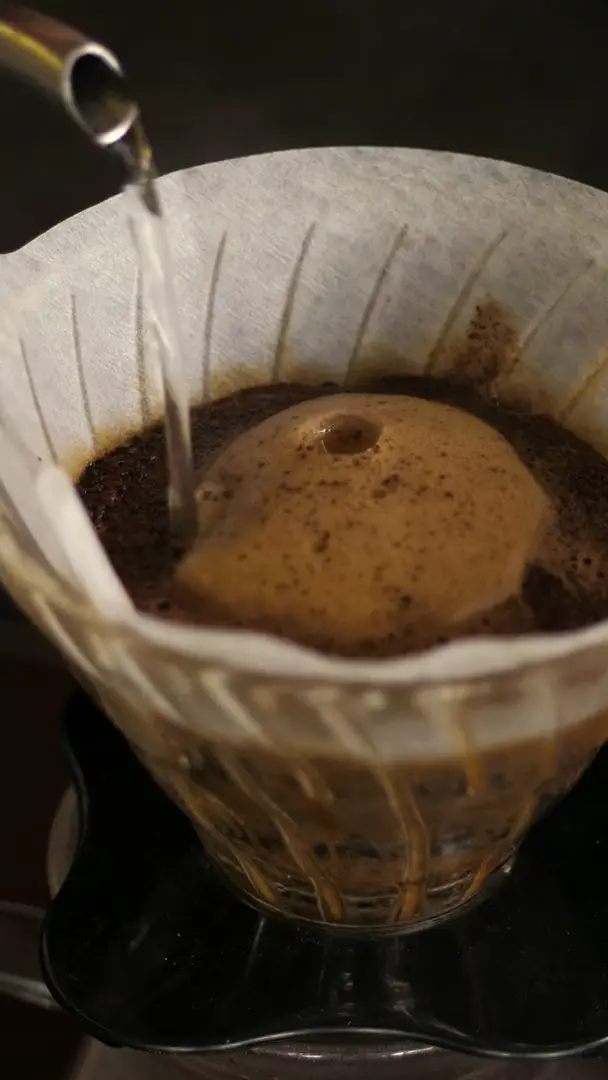
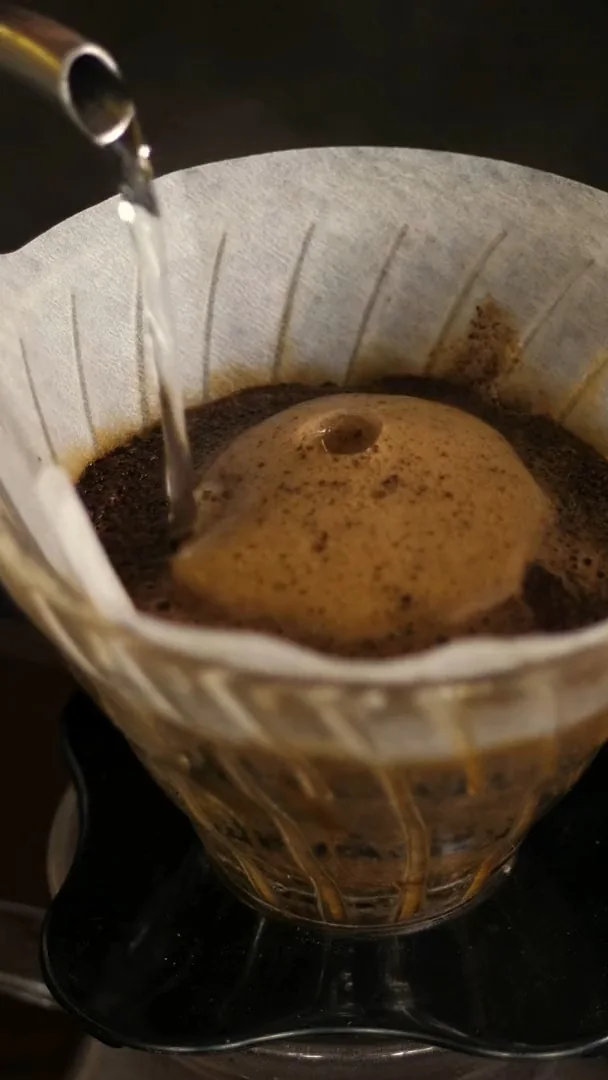
Hero: imagem animada quando o celular bloqueia o vídeo; posters mais nítidos

diff --git a/index.html b/index.html
@@ -481,7 +481,7 @@ video::-webkit-media-controls,video::-webkit-media-controls-start-playback-butto
 <div class="ann"><span><b>5% de desconto</b> na primeira compra<span class="ann-x"> · cupom</span><span class="ann-m">:</span> <b>BEMVINDO</b></span></div>
 
 <section class="hero">
-  <div class="bg" data-par=".6"><picture><source media="(max-width: 760px)" srcset="assets/video/hero-coado-poster-cel.webp" width="608" height="1080"><img src="assets/video/hero-coado-poster.webp" width="1600" height="900" fetchpriority="high" alt=""></picture><video autoplay muted loop playsinline><source src="assets/video/hero-coado-cel.mp4" type="video/mp4" media="(max-width: 760px)"><source src="assets/video/hero-coado.mp4" type="video/mp4"></video></div>
+  <div class="bg" data-par=".6"><picture><source media="(max-width: 760px)" srcset="assets/video/hero-coado-poster-cel.webp" width="608" height="1080"><img src="assets/video/hero-coado-poster.webp" width="1600" height="900" fetchpriority="high" alt=""></picture><video autoplay muted loop playsinline data-anim="assets/video/hero-coado-anim.webp"><source src="assets/video/hero-coado-cel.mp4" type="video/mp4" media="(max-width: 760px)"><source src="assets/video/hero-coado.mp4" type="video/mp4"></video></div>
   <div class="in">
     <div>
       <p class="eyebrow ln-l" data-fade>Café especial · Minas Gerais</p>
@@ -594,9 +594,9 @@ video::-webkit-media-controls,video::-webkit-media-controls-start-playback-butto
 </section>
 
 <script defer src="js/vendor/lenis.min.js"></script>
-<script defer src="js/logo.js?v=55"></script>
-<script defer src="js/catalogo.js?v=55"></script>
-<script defer src="js/loja.js?v=55"></script>
-<script defer src="js/site.js?v=55"></script>
+<script defer src="js/logo.js?v=56"></script>
+<script defer src="js/catalogo.js?v=56"></script>
+<script defer src="js/loja.js?v=56"></script>
+<script defer src="js/site.js?v=56"></script>
 </body>
 </html>

diff --git a/js/site.js b/js/site.js
@@ -209,7 +209,16 @@
   /* vídeos tocam só quando visíveis */
   /* celular com economia de bateria/dados recusa o autoplay: mostra a foto, sem botão de play, e toca no primeiro toque ou rolagem */
   const vis = new Set(), pend = new Set();
-  const toca = v => { const r = v.play(); if (!r) return; r.then(() => { v.classList.remove('v-off'); pend.delete(v); }).catch(() => { if (v.previousElementSibling && v.previousElementSibling.matches('picture, img')) v.classList.add('v-off'); pend.add(v); }); };
+  const toca = v => { const r = v.play(); if (!r) return; r.then(() => { v.classList.remove('v-off'); pend.delete(v); }).catch(() => {
+    if (v.previousElementSibling && v.previousElementSibling.matches('picture, img')) v.classList.add('v-off');
+    /* imagem animada não é bloqueada pela economia de bateria: troca o vídeo por ela, só no celular */
+    if (v.dataset.anim && !v.dataset.animOn && matchMedia('(max-width: 760px)').matches) {
+      v.dataset.animOn = '1'; const im = new Image(); im.alt = ''; im.decoding = 'async'; im.setAttribute('aria-hidden', 'true');
+      im.onload = () => { v.after(im); v.classList.add('v-off'); v.pause(); pend.delete(v); vio.unobserve(v); };
+      im.src = v.dataset.anim; return;
+    }
+    if (!v.dataset.animOn) pend.add(v);
+  }); };
   const gesto = () => pend.forEach(v => vis.has(v) && toca(v));
   ['touchstart', 'pointerdown', 'scroll', 'keydown'].forEach(t => addEventListener(t, gesto, { passive: true }));
   const vio = new IntersectionObserver(es => es.forEach(e => { const v = e.target; if (e.isIntersecting) { vis.add(v); toca(v); } else { vis.delete(v); v.pause(); } }), { rootMargin: '100px' });

diff --git a/produto.html b/produto.html
@@ -672,10 +672,10 @@ body[data-page=loja] .ct .pk{aspect-ratio:1.1}
 <div class="sbar" data-sbar aria-hidden="true" inert></div>
 
 <script defer src="js/vendor/lenis.min.js"></script>
-<script defer src="js/logo.js?v=55"></script>
-<script defer src="js/catalogo.js?v=55"></script>
-<script defer src="js/pg-produto.js?v=55"></script>
-<script defer src="js/loja.js?v=55"></script>
-<script defer src="js/site.js?v=55"></script>
+<script defer src="js/logo.js?v=56"></script>
+<script defer src="js/catalogo.js?v=56"></script>
+<script defer src="js/pg-produto.js?v=56"></script>
+<script defer src="js/loja.js?v=56"></script>
+<script defer src="js/site.js?v=56"></script>
 </body>
 </html>

diff --git a/loja.html b/loja.html
@@ -486,10 +486,10 @@ video::-webkit-media-controls,video::-webkit-media-controls-start-playback-butto
 </section>
 
 <script defer src="js/vendor/lenis.min.js"></script>
-<script defer src="js/logo.js?v=55"></script>
-<script defer src="js/catalogo.js?v=55"></script>
-<script defer src="js/pg-loja.js?v=55"></script>
-<script defer src="js/loja.js?v=55"></script>
-<script defer src="js/site.js?v=55"></script>
+<script defer src="js/logo.js?v=56"></script>
+<script defer src="js/catalogo.js?v=56"></script>
+<script defer src="js/pg-loja.js?v=56"></script>
+<script defer src="js/loja.js?v=56"></script>
+<script defer src="js/site.js?v=56"></script>
 </body>
 </html>

diff --git a/presentes.html b/presentes.html
@@ -576,10 +576,10 @@ body[data-page=loja] .ct .pk{aspect-ratio:1.1}
 </div>
 </section>
 <script defer src="js/vendor/lenis.min.js"></script>
-<script defer src="js/logo.js?v=55"></script>
-<script defer src="js/catalogo.js?v=55"></script>
-<script defer src="js/pg-presentes.js?v=55"></script>
-<script defer src="js/loja.js?v=55"></script>
-<script defer src="js/site.js?v=55"></script>
+<script defer src="js/logo.js?v=56"></script>
+<script defer src="js/catalogo.js?v=56"></script>
+<script defer src="js/pg-presentes.js?v=56"></script>
+<script defer src="js/loja.js?v=56"></script>
+<script defer src="js/site.js?v=56"></script>
 </body>
 </html>

diff --git a/politicas.html b/politicas.html
@@ -415,9 +415,9 @@ video::-webkit-media-controls,video::-webkit-media-controls-start-playback-butto
   </div>
 </main>
 <script defer src="js/vendor/lenis.min.js"></script>
-<script defer src="js/logo.js?v=55"></script>
-<script defer src="js/catalogo.js?v=55"></script>
-<script defer src="js/loja.js?v=55"></script>
-<script defer src="js/site.js?v=55"></script>
+<script defer src="js/logo.js?v=56"></script>
+<script defer src="js/catalogo.js?v=56"></script>
+<script defer src="js/loja.js?v=56"></script>
+<script defer src="js/site.js?v=56"></script>
 </body>
 </html>

diff --git a/historia.html b/historia.html
@@ -517,11 +517,11 @@ video::-webkit-media-controls,video::-webkit-media-controls-start-playback-butto
 </section>
 
 <script defer src="js/vendor/lenis.min.js"></script>
-<script defer src="js/logo.js?v=55"></script>
-<script defer src="js/catalogo.js?v=55"></script>
+<script defer src="js/logo.js?v=56"></script>
+<script defer src="js/catalogo.js?v=56"></script>
 
-<script defer src="js/loja.js?v=55"></script>
-<script defer src="js/site.js?v=55"></script>
+<script defer src="js/loja.js?v=56"></script>
+<script defer src="js/site.js?v=56"></script>
 
 
 </body>
